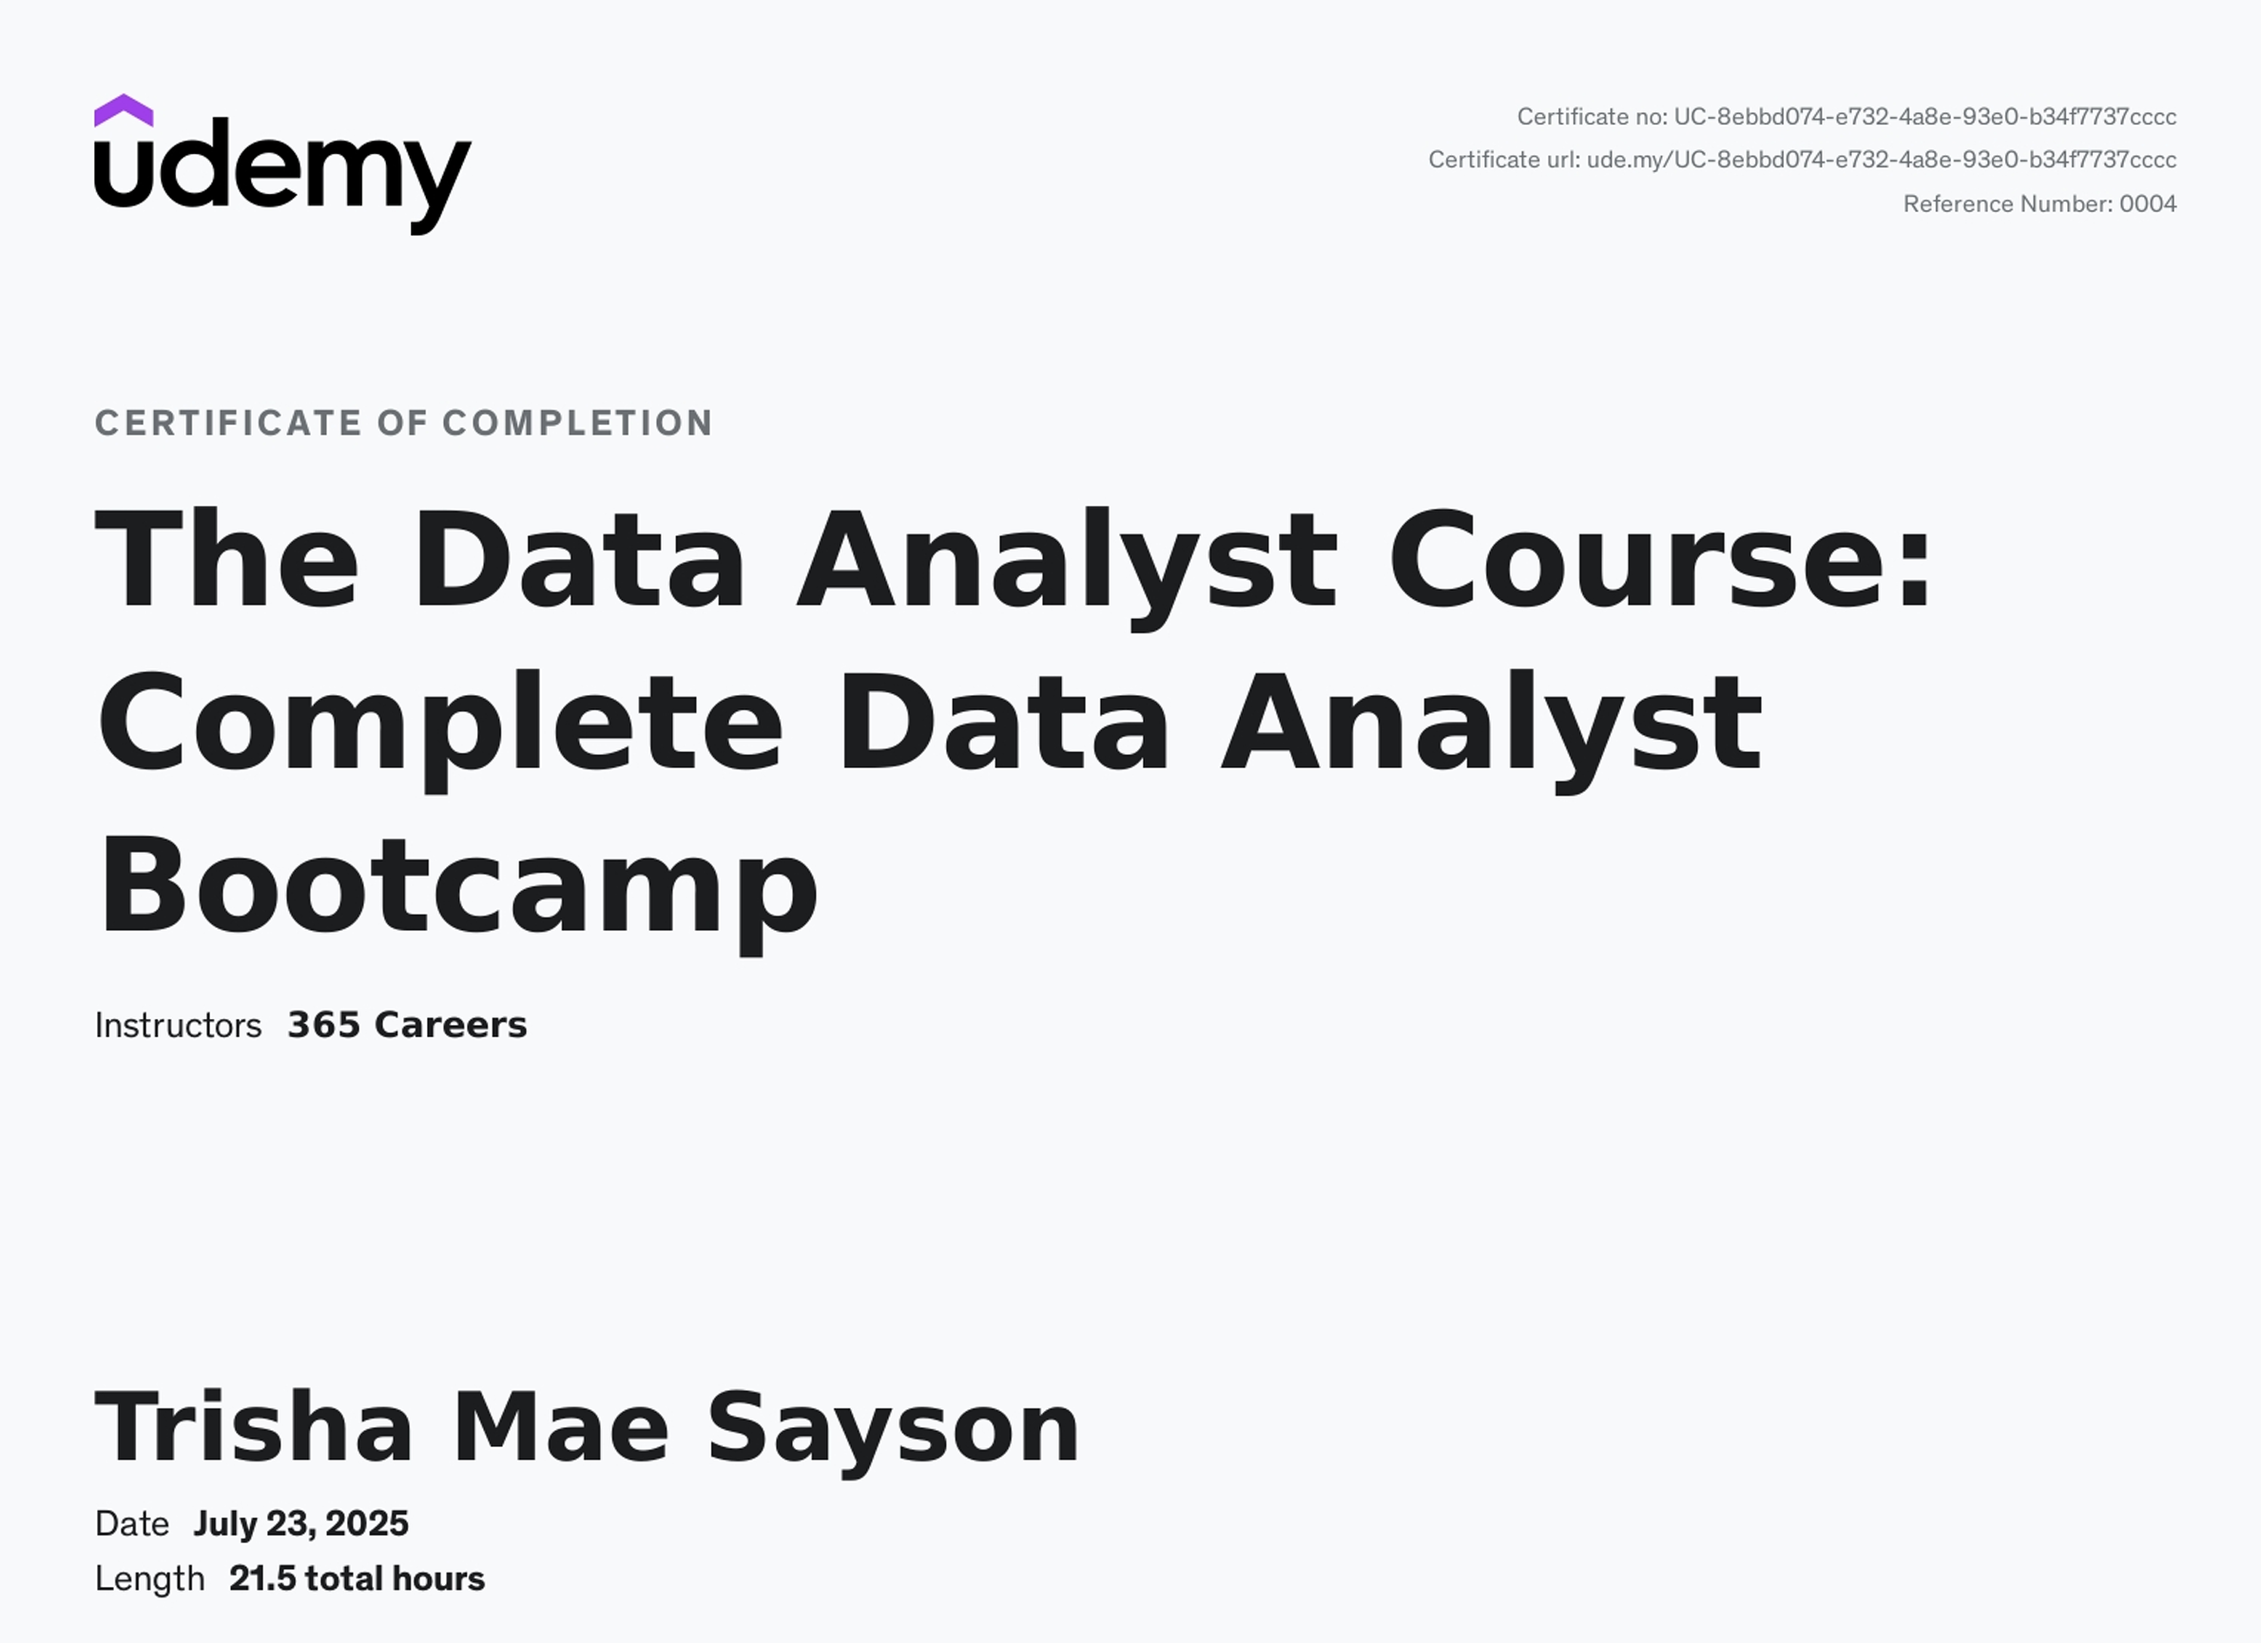
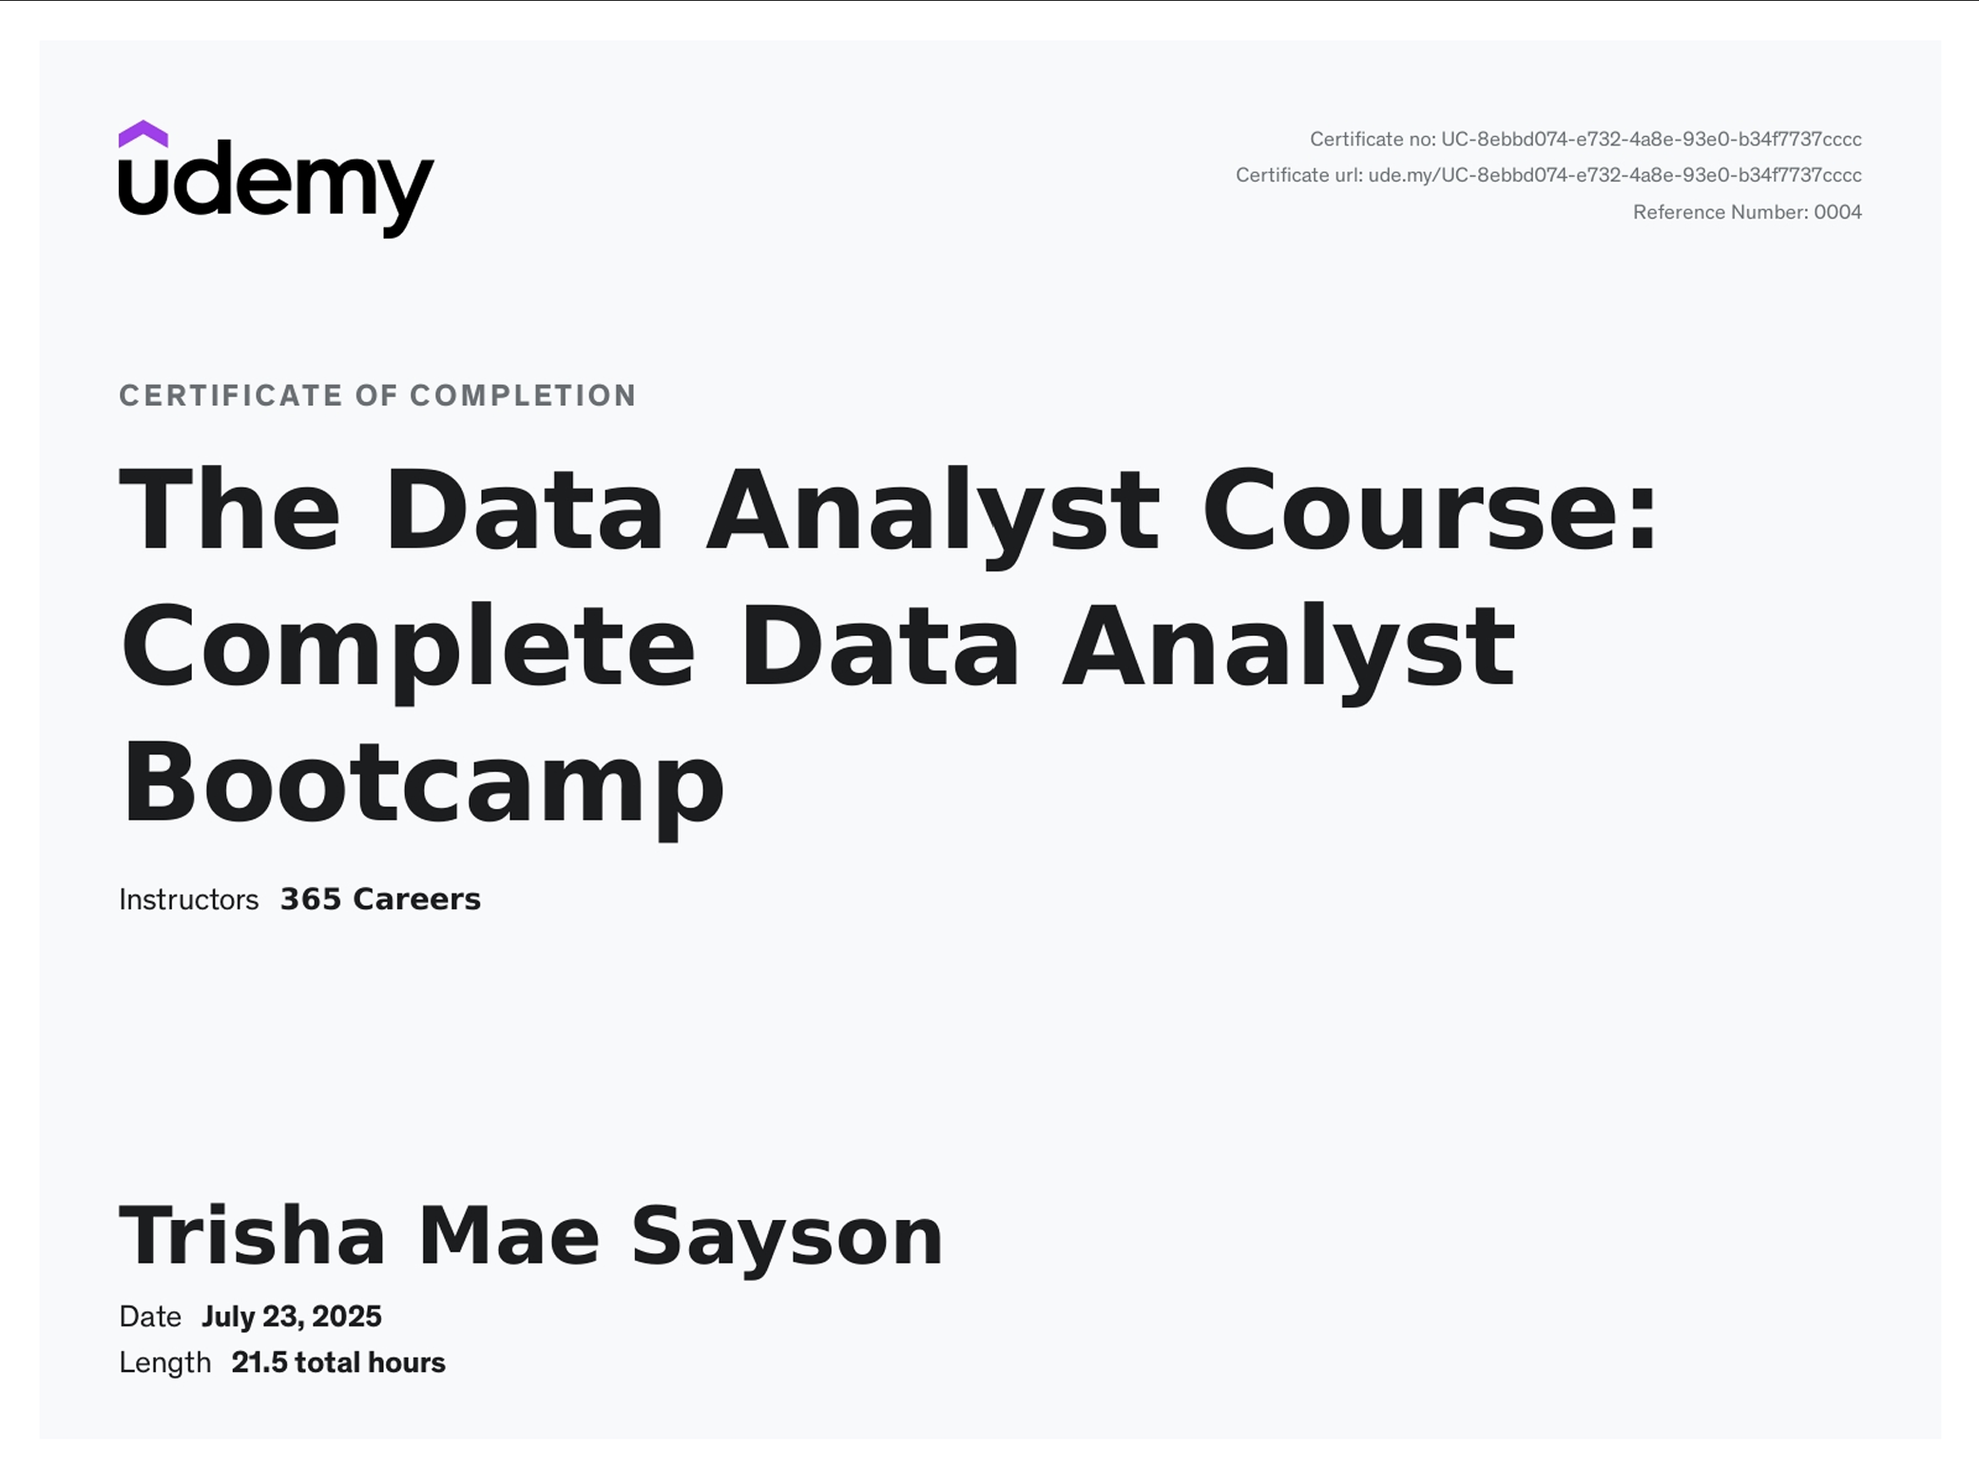
revised photo

diff --git a/Home/style.css b/Home/style.css
@@ -467,8 +467,6 @@ p {
 .achievement-details {
   flex: 1;
   padding: 20px 30px;
-  background-color: #f7f7f7;
-  border-radius: 12px;
 }
 
 .achievement-details .highlight {
@@ -481,18 +479,19 @@ p {
   display: flex;              /* lay photos side by side */
   justify-content: flex-start; /* align to left */
   align-items: center;
-  gap: 15px;                  /* space between photos */
+  gap: 30px;                  /* space between photos */
   flex-wrap: wrap;            /* optional: wrap to next line if screen too small */
 }
 
 /* Individual photo boxes */
 .achievement-photos .photo-square {
   position: relative;         /* remove absolute positioning */
-  width: 150px;
-  height: 150px;
-  border-radius: 8px;         /* photograph corners */
+  width: 80%;
+  height: 80%;
+  background-color: white;
+  box-shadow: 0 4px 8px 0 rgba(0, 0, 0, 0.2), 0 6px 20px 0 rgba(0, 0, 0, 0.19);
+  margin-bottom: 25px;
   overflow: hidden;
-  box-shadow: 0 4px 10px rgba(0,0,0,0.2);
   transition: transform 0.4s ease;
 }
 

diff --git a/Home/index.html b/Home/index.html
@@ -179,7 +179,7 @@
                   <div class="photo-square ach-square2"><img src="images/Edukcircle 2.jpg" alt="EdukCircle"></div>
                   <div class="photo-square ach-square3"><img src="images/license.png" alt="License"></div>
                   <div class="photo-square ach-square4"><img src="images/data.png" alt="Data"></div>
-                  <div class="photo-square ach-square5"><img src="images/IBM.png" alt="IBM"></div>
+                  <div class="photo-square ach-square5"><img src="images/web.png" alt="IBM"></div>
                 </div>
 
               <div class="achievements-box d-flex">
